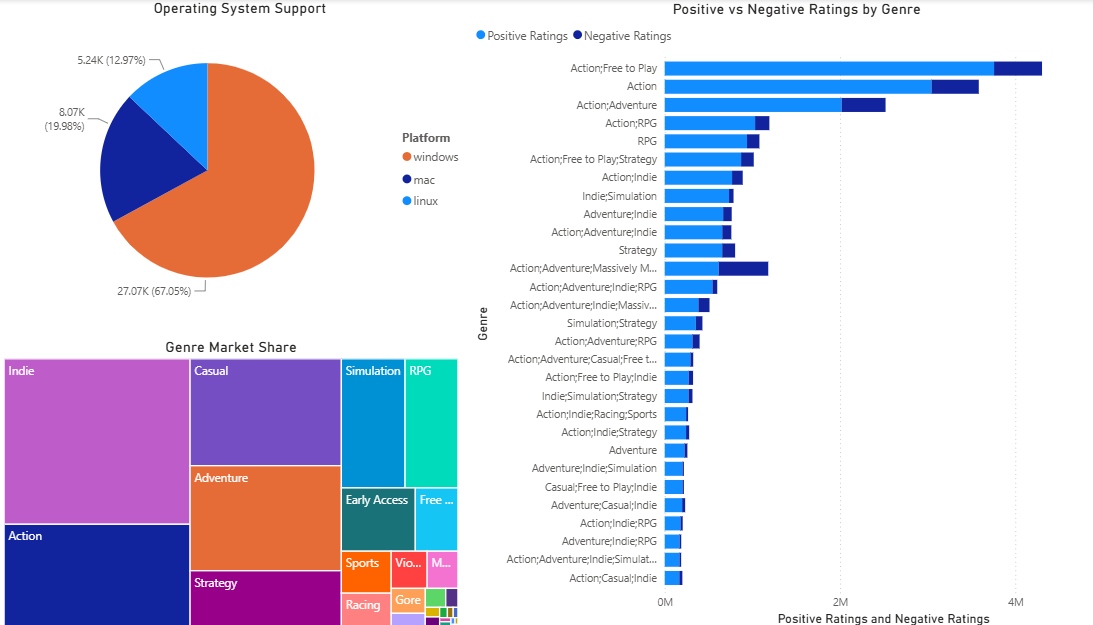
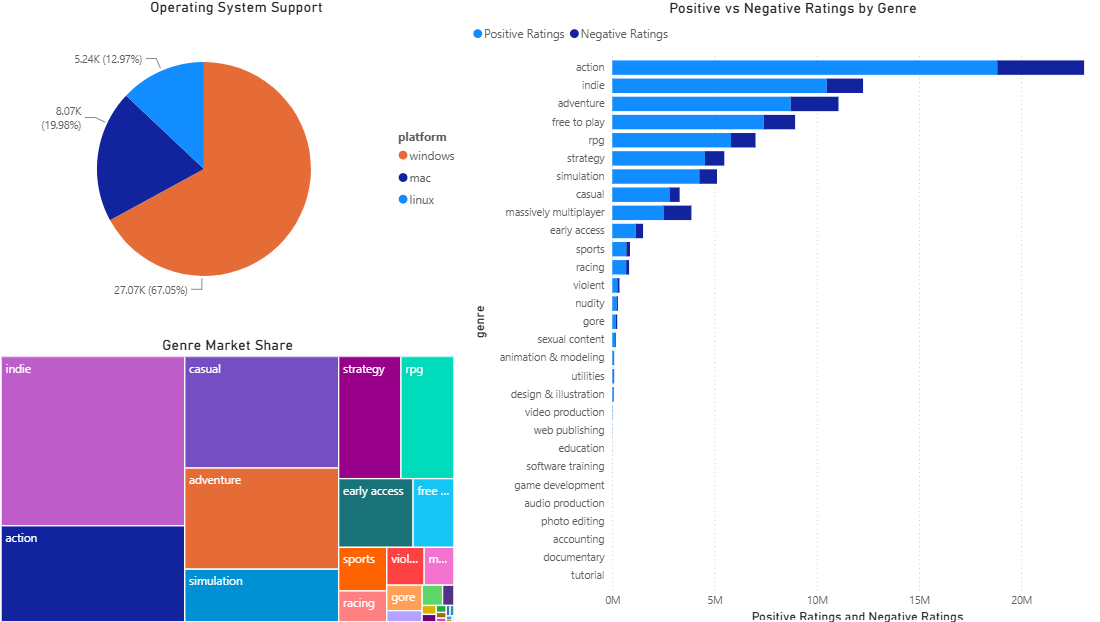
docs: update README and data model documentation

diff --git a/README.md b/README.md
@@ -2,6 +2,15 @@
 
 >*As a gamer and data enthusiast, I have always been fascinated by how the Steam marketplace evolves. This curiosity inspired me to explore the data behind the platform and gain deeper insights into market trends, player preferences.*
 
+## Table of Contents
+
+- [Overview](#overview)
+- [Architecture](#architecture)
+- [Data Quality](#data-quality)
+- [Data Visualization](#data-visualization)
+- [Data Source](#data-source)
+- [Project Structure](#project-structure)
+
 ## Overview
 
 This project is designed to collect, store, process, and visualize data from the Steam Store for game market analysis. The goal is to derive meaningful insights into market trends and game performance.
@@ -9,6 +18,127 @@ This project is designed to collect, store, process, and visualize data from the
 ## Architecture
 
 ![Architecture](images/Architecture.png)
+
+The model brings together the different information available for each game, keeping related data organized and connected so it is easier to understand each game and its overall characteristics.
+
+![Data Model](images/Data_Model.png)
+
+## Data Quality
+
+### 1.Completeness
+
+#### `steam`
+
+| Column | Null Count | STATUS |
+| ------ | ---------- | ------ |
+| appid | 0 | PASS |
+| name | 0 | PASS |
+| release_date | 0 | PASS |
+| english | 0 | PASS |
+| developer | 0 | PASS |
+| publisher | 0 | PASS |
+| platforms | 0 | PASS |
+| required_age | 0 | PASS |
+| categories | 0 | PASS |
+| genres | 0 | PASS |
+| steamspy_tags | 0 | PASS |
+| achievements | 0 | PASS |
+| positive_ratings | 0 | PASS |
+| negative_ratings | 0 | PASS |
+| average_playtime | 0 | PASS |
+| median_playtime | 0 | PASS |
+| owners | 0 | PASS |
+| price | 0 | PASS |
+
+#### `steam_description_data`
+
+| Column | Null Count | STATUS |
+| ------ | ---------- | ------ |
+| steam_appid | 0 | PASS |
+| detailed_description | 0 | PASS |
+| about_the_game | 0 | PASS |
+| short_description | 0 | PASS |
+
+#### `steam_media_data`
+
+| Column | Null Count | STATUS |
+| ------ | ---------- | ------ |
+| steam_appid | 0 | PASS |
+| header_image | 0 | PASS |
+| screenshots | 0 | PASS |
+| background | 0 | PASS |
+| movies | 1,691 | PASS |
+
+#### `steam_requirements_data`
+
+| Column | Null Count | STATUS |
+| ------ | ---------- | ------ |
+| steam_appid | 0 | PASS |
+| pc_requirements | 0 | PASS |
+| mac_requirements | 0 | PASS |
+| linux_requirements | 0 | PASS |
+| minimum | 5 | PASS |
+| recommended | 13,185 | PASS |
+
+#### `steam_support_info`
+
+| Column | Null Count | STATUS |
+| ------ | ---------- | ------ |
+| steam_appid | 0 | PASS |
+| website | 9,121 | PASS |
+| support_url | 10,654 | PASS |
+| support_email | 3,634 | PASS |
+
+#### `steamspy_tag_data`
+
+| Column | Null Count | STATUS |
+| ------ | ---------- | ------ |
+| appid | 0 | PASS | PASS |
+| Tag columns | 0/371 | PASS |
+
+### 2.Timeliness
+
+| Check | Condition | Result | Status |
+| ----- | --------- | ------ | ------ |
+| Release date | `release_date > current_date` | 0 | PASS |
+
+### 3.Validity
+
+| Column | Condition | Result | Status |
+| ----- | --------- | ------ | ------ |
+| appid | `appid <= 0` | 0 | PASS |
+| required_age | `required_age < 0 ` | 0 | PASS |
+| english | `english not in (0, 1)` | 0 | PASS |
+| platforms | `platforms not in ["windows", "mac", "linux"]` | 0 | PASS |
+| price | `price < 0` | 0 | PASS |
+| positive_ratings | `positive_ratings < 0` | 0 | PASS |
+| negative_ratings | `negative_ratings < 0` | 0 | PASS |
+| average_playtime | `average_playtime < 0` | 0 | PASS |
+| median_playtime | `median_playtime < 0` | 0 | PASS |
+| achievements | `achievements < 0` | 0 | PASS |
+| release_date | Not in valid date format (yyyy-MM-dd) | 0 | PASS |
+| header_image | Not in valid URL format https | 0 | PASS |
+
+### 4.Integrity
+
+| Check | Result | Status |
+| ----- | ------ | ------ |
+| Steam -> Steam_description_data | 0 | PASS |
+| Steam -> Steam_media_data | 0 | PASS |
+| Steam -> Steam_requirements_data | 13 | FAIL |
+| Steam -> Steam_support_info | 194 | FAIL |
+| Steam -> Steamspy_tag_data | 0 | PASS |
+
+### 5.Uniqueness
+
+| Table | Column | Check Type | Result | Status |
+| ----- | ------ | ---------- | ------ | ------ |
+| steam | appid | Duplicate | 0 | PASS |
+| steam_description_data | steam_appid | Duplicate | 0 | PASS |
+| steam_media_data | steam_appid | Duplicate | 0 | PASS |
+| steam_requirements_data | steam_appid | Duplicate | 0 | PASS |
+| steam_support_info | steam_appid | Duplicate | 0 | PASS |
+| steamspy_tag_data | appid | Duplicate | 0 | PASS |
 
 ## Data Visualization
 
@@ -32,7 +162,7 @@ This dashboard examines the intersection of pricing strategy, player engagement,
 
 ## Data Source
 
-The dataset used in this project is publicly available on Kaggle under the title [Steam Store Games](https://www.kaggle.com/datasets/nikdavis/steam-store-games). It contains information on over 27,000 Steam games from 1997 to 2019, including metadata, pricing, genres, system requirements, ratings, and playtime statistics.
+The dataset used in this project is2q332 publicly available on Kaggle under the title [Steam Store Games](https://www.kaggle.com/datasets/nikdavis/steam-store-games). It contains information on over 27,000 Steam games from 1997 to 2019, including metadata, pricing, genres, system requirements, ratings, and playtime statistics.
 
 ## Project Structure
 
